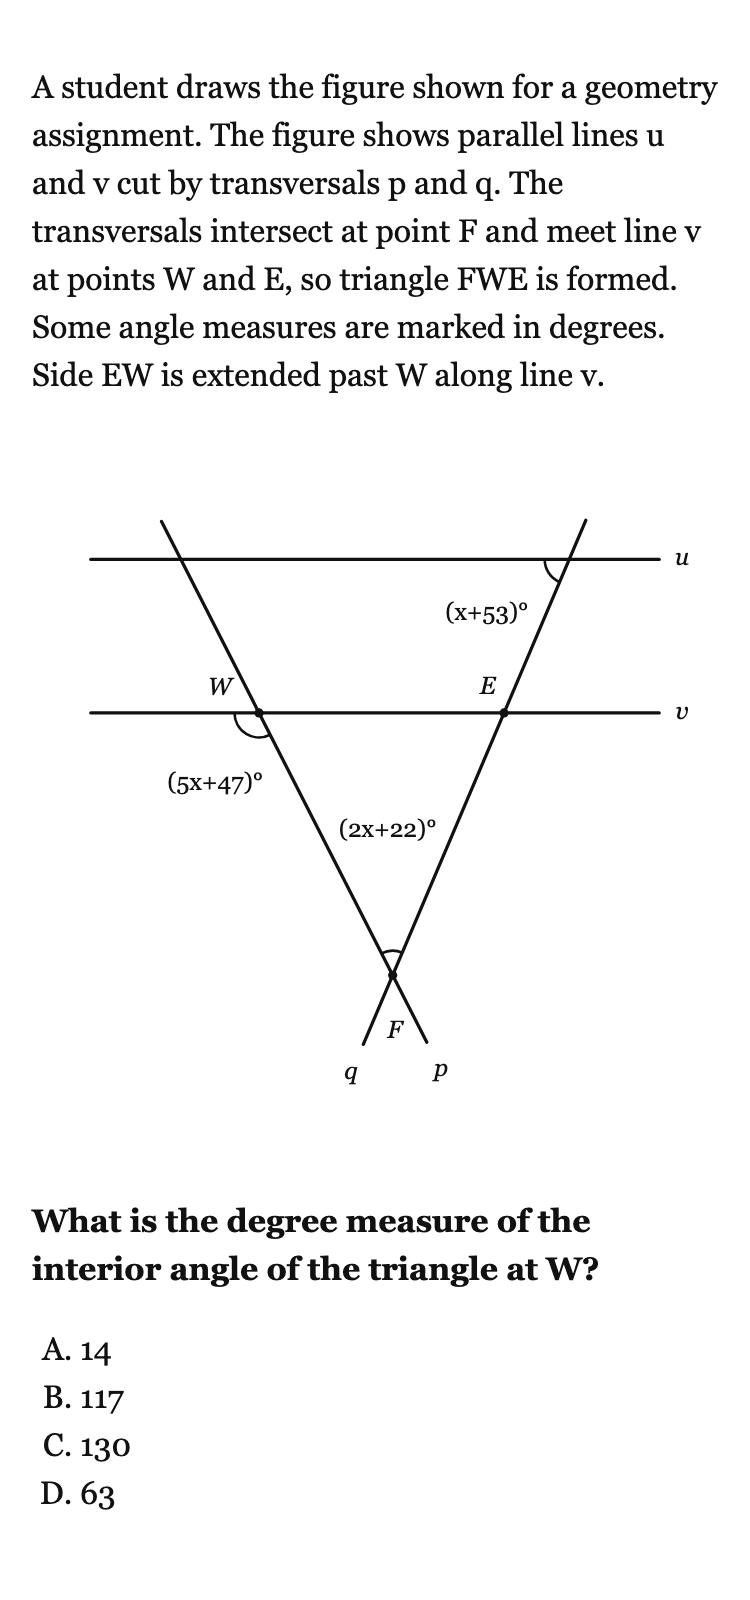
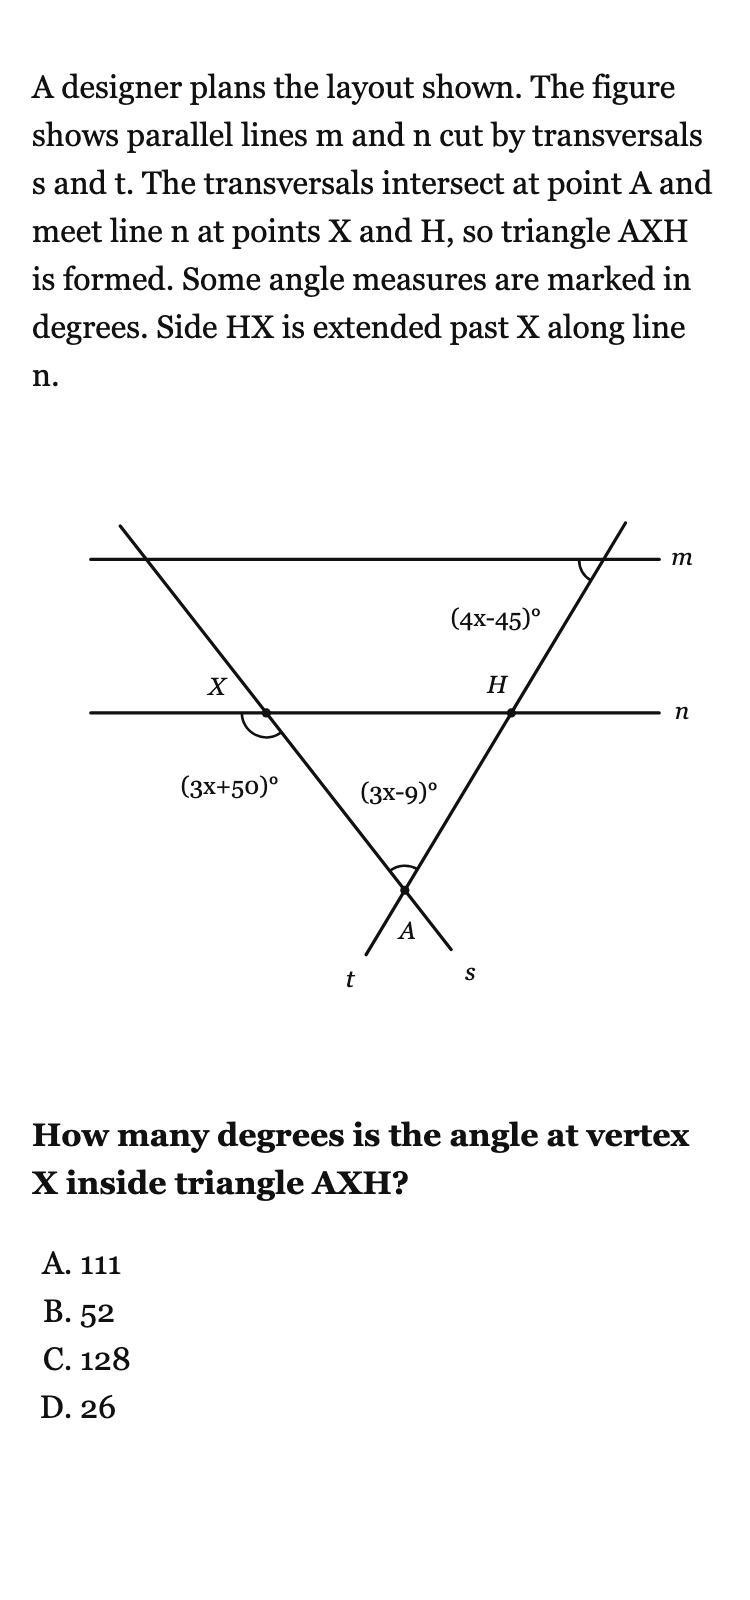
feat(figures): PT 삼각형 내각의 합 triangle_angle_sum.PT.P(교차 횡단선 삼각형) + 장면 꼭대기 각 ≥60°

diff --git a/lib/problem-generation/math-archetypes/skills/fig/items/lines_angles_triangles.triangle_angle_sum.PT.P.ts b/lib/problem-generation/math-archetypes/skills/fig/items/lines_angles_triangles.triangle_angle_sum.PT.P.ts
@@ -1,0 +1,106 @@
+// lines_angles_triangles.triangle_angle_sum.PT.P — 평행선 두 개와 아래에서 만나는 횡단선 두 개가 만드는 삼각형 XPQ 의 세 각 라벨(위 평행선의 동위각 포함)에서 내각의 합 180° 로 x 와 각을 구한다.
+import { GenFail } from "../../../types";
+import { W } from "../../d-kit";
+import { figJs } from "../../../figure-kit";
+import { defineItem } from "../item-kit";
+import { geoInst } from "../geo-kit";
+import { CR_JS, crExpr, crFig, crIntro, crNum, crScene, type CrAng, type CrScene } from "../geo-cr-kit";
+import { retry } from "../ext-kit";
+import { exprLabel } from "../tri-kit";
+import type { Rng } from "../../../rng";
+
+const pos = (ws: ReturnType<typeof W>[]) => ws.filter((w) => Number.isInteger(w.v) && w.v > 0 && w.v < 180);
+/** 삼각형 세 각을 읽는 자리: al(P 의 각)·be(Q 의 각)는 아래 평행선(삼각형의 각 그대로) 또는 위 평행선(동위각)에서, ga 는 꼭대기 X. */
+function spots(rng: Rng) { return { upA: rng.chance(0.5), upB: rng.chance(0.5) }; }
+type Sp = ReturnType<typeof spots>;
+const angAl = (s: Sp, label: string): CrAng => ({ at: s.upA ? "mp" : "np", region: "SE", label });
+const angBe = (s: Sp, label: string): CrAng => ({ at: s.upB ? "mq" : "nq", region: "SW", label });
+const angGa = (label: string): CrAng => ({ at: "X", region: "N", label });
+const read: [string, string] = ["그림에서 세 각의 라벨을 읽는다.", "Read the three angle labels."];
+const corr = (s: Sp, sc: CrScene): [string, string] => (s.upA || s.upB) ? [`위 평행선 ${sc.par[0]} 에서 읽은 각은 동위각이므로 삼각형 ${sc.X}${sc.P}${sc.Q} 의 각과 같다.`, "Angles read at the upper line are corresponding angles: equal to the triangle's angles."] : [`세 각은 모두 삼각형 ${sc.X}${sc.P}${sc.Q} 의 내각이다.`, "All three are interior angles of the triangle."];
+const nm = (sc: CrScene) => `${sc.X}${sc.P}${sc.Q}`;
+const QX = (rng: Rng) => rng.pick([`What is the value of $x$?`, `In the figure shown, what is the value of $x$?`, `What value of $x$ is shown in the figure?`]);
+const trig = (sc: CrScene, s: Sp, labels: [string, string, string]): [string, string] => [`삼각형 ${nm(sc)} 의 세 각 ${labels.join(", ")} 의 합이 180° 이다.`, "The interior angles add to 180°."]; void trig;
+
+export const ITEM = defineItem({
+  prefix: "lat", itemId: "lines_angles_triangles.triangle_angle_sum.PT.P",
+  hard: [
+    {
+      op: "compose_kind", structure: "삼각형의 세 각이 x 의 일차식으로 라벨된 그림(두 각은 위 평행선의 동위각일 수 있음)에서 내각의 합 180° 로 x 를 구한 뒤 가장 큰 각의 크기를 구함", extra: "동위각을 삼각형의 각으로 옮겨 합 180° 의 방정식을 세우고 각각에 되돌려 가장 큰 각을 골라야 함(x 를 답하는 함정) — medium 은 x 의 값",
+      concepts: ["삼각형 내각의 합", "동위각", "일차방정식", "각의 크기 비교"],
+      gen(rng) { return retry(rng, () => {
+        const sc = crScene(rng); const s = spots(rng); const x = rng.int(8, 26); const eA = crExpr(rng, sc.al, x), eB = crExpr(rng, sc.be, x), eG = crExpr(rng, sc.ga, x); if (eA.a + eB.a + eG.a === 0) throw new GenFail("퇴화"); const big = Math.max(sc.al, sc.be, sc.ga);
+        const fig = crFig(sc, [angAl(s, eA.label), angBe(s, eB.label), angGa(eG.label)]);
+        return geoInst(rng, {
+          stimulus: crIntro(rng, sc), question: rng.pick([`What is the measure, in degrees, of the largest angle of triangle $${nm(sc)}$?`, `What is the degree measure of the largest interior angle of the triangle?`, `The greatest angle of triangle $${nm(sc)}$ measures how many degrees?`]), correct: big,
+          wrongs: pos([W(x, "step_missing", "x 를 답했다."), W(Math.min(sc.al, sc.be, sc.ga), "opposite", "가장 작은 각을 답했다."), W(180 - big, "formula_misuse", "나머지 두 각의 합을 답했다."), W(sc.al + sc.be, "formula_misuse", "두 밑각의 합을 답했다."), W(big + 10, "other", "계산 중 어긋났다.")]).filter((w) => w.v !== big),
+          verificationJs: figJs({}, fig, `${CR_JS}if (!Number.isFinite(X)) throw new Error('x 없음'); return Math.max(AL,BE,GA);`),
+          trace: [read, corr(s, sc), [`내각의 합: ${eA.label.replace("°", "")} + ${eB.label.replace("°", "")} + ${eG.label.replace("°", "")} = 180 에서 x = ${x} 이다.`, "The three angles add to 180°; solve for x."], [`세 각은 ${sc.al}°, ${sc.be}°, ${sc.ga}° 이다.`, "Substitute x."], [`가장 큰 각은 ${big}° 이다.`, "Pick the largest."], [`따라서 ${big} 이다.`, "State the measure."]], variant: "largest_angle_parallel_triangle",
+        }, fig);
+      }); },
+    },
+    {
+      op: "chain2", structure: "삼각형의 두 각이 x 의 식(동위각일 수 있음), 꼭대기 각이 숫자로 라벨된 그림에서 내각의 합으로 x 를 구한 뒤 한 밑각의 크기를 구함", extra: "합 180° → x → 식에 되돌려 밑각 의 연쇄(꼭대기 각이나 x 를 답하는 함정) — medium 은 x 의 값",
+      concepts: ["삼각형 내각의 합", "동위각", "일차방정식"],
+      gen(rng) { return retry(rng, () => {
+        const sc = crScene(rng); const s = spots(rng); const x = rng.int(8, 26); const eA = crExpr(rng, sc.al, x), eB = crExpr(rng, sc.be, x); if (eA.a + eB.a === 0) throw new GenFail("퇴화"); const askP = rng.chance(0.5); const tgt = askP ? sc.al : sc.be; const who = askP ? sc.P : sc.Q;
+        const fig = crFig(sc, [angAl(s, eA.label), angBe(s, eB.label), angGa(crNum(sc.ga))]);
+        return geoInst(rng, {
+          stimulus: crIntro(rng, sc), question: rng.pick([`What is the measure, in degrees, of angle $${who}$ of triangle $${nm(sc)}$?`, `What is the degree measure of the interior angle at vertex $${who}$?`, `How many degrees is the angle of the triangle at $${who}$?`]), correct: tgt,
+          wrongs: pos([W(x, "step_missing", "x 를 답했다."), W(sc.ga, "other", "꼭대기 각을 답했다."), W(askP ? sc.be : sc.al, "other", "다른 밑각을 답했다."), W((askP ? eA : eB).a * x, "step_missing", "상수항을 더하지 않았다."), W(tgt + 10, "other", "계산 중 어긋났다.")]).filter((w) => w.v !== tgt),
+          verificationJs: figJs({ who: askP ? "P" : "Q" }, fig, `${CR_JS}if (!Number.isFinite(X)) throw new Error('x 없음'); return P.who==='P'?AL:BE;`),
+          trace: [read, corr(s, sc), [`내각의 합: ${eA.label.replace("°", "")} + ${eB.label.replace("°", "")} + ${sc.ga} = 180 에서 x = ${x} 이다.`, "The three angles add to 180°."], [`∠${who} = ${(askP ? eA : eB).label.replace("°", "")} = ${tgt}° 이다.`, "Substitute x into the label of the asked angle."], [`꼭대기 각은 ${sc.ga}° 로 합이 180° 이다.`, "Check the sum."], [`따라서 ${tgt} 이다.`, "State the measure."]], variant: "base_angle_from_sum_parallel",
+        }, fig);
+      }); },
+    },
+    {
+      op: "repr_shift", structure: "삼각형의 세 각이 ax°, bx°, cx° 의 비로 라벨된 그림(두 각은 동위각일 수 있음)에서 비를 식으로 옮겨 합 180° 로 지정한 각의 크기를 구함", extra: "비 라벨의 계수 합 = 180° 로 x 를 구해 가장 작은(또는 큰) 각을 골라야 함 — medium 은 x 의 값",
+      concepts: ["삼각형 내각의 합", "비", "동위각"],
+      gen(rng) { return retry(rng, () => {
+        const sets: [number, number, number][] = [[2, 3, 4], [3, 4, 5], [2, 3, 5], [4, 5, 6], [3, 5, 7], [2, 4, 5]]; const set = rng.pick(sets); const sum = set[0] + set[1] + set[2]; if (180 % sum) throw new GenFail("비"); const k = 180 / sum;
+        const p = rng.shuffle([...set]) as [number, number, number]; const [a, b, g] = p.map((q) => q * k) as [number, number, number]; if (a < 46 || a > 85 || b < 46 || b > 85 || g < 30 || a === b || g === a || g === b) throw new GenFail("범위");
+        const sc: CrScene = { ...crScene(rng), al: a, be: b, ga: g }; const s = spots(rng); const askSmall = rng.chance(0.5); const vals = [a, b, g]; const correct = askSmall ? Math.min(...vals) : Math.max(...vals);
+        const fig = crFig(sc, [angAl(s, exprLabel(p[0], 0)), angBe(s, exprLabel(p[1], 0)), angGa(exprLabel(p[2], 0))]);
+        return geoInst(rng, {
+          stimulus: crIntro(rng, sc, " The angles are in the ratio shown."), question: askSmall ? rng.pick([`What is the measure, in degrees, of the smallest angle of triangle $${nm(sc)}$?`, `The smallest interior angle of the triangle measures how many degrees?`]) : rng.pick([`What is the measure, in degrees, of the largest angle of triangle $${nm(sc)}$?`, `The largest interior angle of the triangle measures how many degrees?`]), correct,
+          wrongs: pos([W(k, "step_missing", "x 를 답했다."), W(askSmall ? Math.max(...vals) : Math.min(...vals), "opposite", "반대 각을 답했다."), W(60, "formula_misuse", "세 각이 같다고 보았다."), W(180 - correct, "formula_misuse", "나머지 두 각의 합을 답했다."), W(correct + 10, "other", "계산 중 어긋났다.")]).filter((w) => w.v !== correct),
+          verificationJs: figJs({ small: askSmall ? 1 : 0 }, fig, `${CR_JS}if (!Number.isFinite(X)) throw new Error('x 없음'); return P.small?Math.min(AL,BE,GA):Math.max(AL,BE,GA);`),
+          trace: [read, corr(s, sc), [`합: ${p.join("x + ")}x = ${sum}x = 180 에서 x = ${k} 이다.`, "The ratio parts add to 180°."], [`세 각은 ${a}°, ${b}°, ${g}° 이다.`, "Multiply."], [`${askSmall ? "가장 작은" : "가장 큰"} 각은 ${correct}° 이다.`, "Pick the requested angle."], [`따라서 ${correct} 이다.`, "State the measure."]], variant: askSmall ? "smallest_angle_ratio_parallel" : "largest_angle_ratio_parallel",
+        }, fig);
+      }); },
+    },
+    {
+      op: "inverse", structure: "삼각형의 한 각이 숫자, 나머지 두 각이 x 의 식으로 라벨된 그림(동위각일 수 있음)에서 180° 에서 숫자 각을 뺀 뒤 x 를 역산해 지정한 각의 크기를 구함", extra: "180° − 숫자 각 = 나머지 두 식의 합 으로 x 를 거꾸로 구해 식에 되돌려야 함(숫자 각을 답하는 함정) — medium 은 x 의 값",
+      concepts: ["삼각형 내각의 합", "동위각", "일차방정식", "식의 대입"],
+      gen(rng) { return retry(rng, () => {
+        const sc = crScene(rng); const s = spots(rng); const x = rng.int(8, 26); const numAt = rng.pick(["al", "be", "ga"] as const); const vals = { al: sc.al, be: sc.be, ga: sc.ga }; const others = (["al", "be", "ga"] as const).filter((q) => q !== numAt); const e1 = crExpr(rng, vals[others[0]], x), e2 = crExpr(rng, vals[others[1]], x); if (e1.a + e2.a === 0) throw new GenFail("퇴화");
+        const lab = { al: "", be: "", ga: "" }; lab[numAt] = crNum(vals[numAt]); lab[others[0]] = e1.label; lab[others[1]] = e2.label; const tgt = others[rng.int(0, 1)]; const who = tgt === "al" ? sc.P : tgt === "be" ? sc.Q : sc.X; const e = tgt === others[0] ? e1 : e2;
+        const fig = crFig(sc, [angAl(s, lab.al), angBe(s, lab.be), angGa(lab.ga)]);
+        return geoInst(rng, {
+          stimulus: crIntro(rng, sc), question: rng.pick([`What is the measure, in degrees, of angle $${who}$ of triangle $${nm(sc)}$?`, `What is the degree measure of the interior angle at vertex $${who}$?`]), correct: vals[tgt],
+          wrongs: pos([W(x, "step_missing", "x 를 답했다."), W(vals[numAt], "other", "숫자로 주어진 각을 답했다."), W(180 - vals[numAt], "formula_misuse", "나머지 두 각의 합을 답했다."), W(e.a * x, "step_missing", "상수항을 더하지 않았다."), W(vals[tgt] + 10, "other", "계산 중 어긋났다.")]).filter((w) => w.v !== vals[tgt]),
+          verificationJs: figJs({ t: tgt }, fig, `${CR_JS}if (!Number.isFinite(X)) throw new Error('x 없음'); return P.t==='al'?AL:P.t==='be'?BE:GA;`),
+          trace: [read, corr(s, sc), [`나머지 두 각의 합 = 180° - ${vals[numAt]}° = ${180 - vals[numAt]}° 이다.`, "The other two angles add to 180° minus the given angle."], [`두 식의 합을 ${180 - vals[numAt]} 와 같게 놓아 x = ${x} 를 얻는다.`, "Solve for x."], [`∠${who} = ${e.label.replace("°", "")} = ${vals[tgt]}° 이다.`, "Substitute x."], [`따라서 ${vals[tgt]} 이다.`, "State the measure."]], variant: "angle_from_one_numeric_angle_parallel",
+        }, fig);
+      }); },
+    },
+  ],
+  em: [
+    {
+      lv: "easy", name: "third_angle", structure: "두 각이 숫자로 주어진 그림에서 셋째 각(x°)을 180° 에서 빼서 구함", extra: "easy: 내각의 합 180° 한 번 적용", concepts: ["삼각형 내각의 합", "뺄셈"],
+      gen(rng) { return retry(rng, () => {
+        const sc = crScene(rng); const s = spots(rng); const k = rng.pick(["al", "be", "ga"] as const); const vals = { al: sc.al, be: sc.be, ga: sc.ga }; const lab = { al: crNum(sc.al), be: crNum(sc.be), ga: crNum(sc.ga) }; lab[k] = "x°";
+        const fig = crFig(sc, [angAl(s, lab.al), angBe(s, lab.be), angGa(lab.ga)]); const o = (["al", "be", "ga"] as const).filter((q) => q !== k);
+        return geoInst(rng, { stimulus: crIntro(rng, sc), question: QX(rng), correct: vals[k], wrongs: pos([W(vals[o[0]] + vals[o[1]], "formula_misuse", "두 각의 합을 답했다."), W(90 - vals[o[0]], "formula_misuse", "90°에서 뺐다."), W(vals[o[0]], "other", "다른 각을 답했다."), W(vals[k] + 10, "other", "계산 중 어긋났다.")]).filter((w) => w.v !== vals[k]), verificationJs: figJs({}, fig, `${CR_JS}const x=FIGURE.angles.find(g=>/^x/.test(g.label)); if(!x) throw new Error('x 라벨 없음'); return meas(x.at,x.region);`), trace: [read, corr(s, sc), [`x = 180 - ${vals[o[0]]} - ${vals[o[1]]} = ${vals[k]} 이다.`, "Subtract the two known angles from 180°."]], variant: "third_angle_numbers_parallel" }, fig);
+      }); },
+    },
+    {
+      lv: "medium", name: "solve_x", structure: "세 각이 x 의 일차식인 그림에서 합 180° 로 x 를 구함", extra: "medium: 일차방정식 한 번", concepts: ["삼각형 내각의 합", "일차방정식"],
+      gen(rng) { return retry(rng, () => {
+        const sc = crScene(rng); const s = spots(rng); const x = rng.int(8, 26); const eA = crExpr(rng, sc.al, x), eB = crExpr(rng, sc.be, x), eG = crExpr(rng, sc.ga, x); if (eA.a + eB.a + eG.a === 0) throw new GenFail("퇴화");
+        const fig = crFig(sc, [angAl(s, eA.label), angBe(s, eB.label), angGa(eG.label)]);
+        return geoInst(rng, { stimulus: crIntro(rng, sc), question: QX(rng), correct: x, wrongs: pos([W(sc.al, "formula_misuse", "첫 각을 답했다."), W(Math.round((180 - eA.b - eB.b - eG.b) / (eA.a + eB.a + eG.a + 1)), "formula_misuse", "계수 합을 잘못 셌다."), W(Math.round(180 / (eA.a + eB.a + eG.a)), "step_missing", "상수항을 무시했다."), W(x + 1, "other", "계산 중 어긋났다.")]).filter((w) => w.v !== x), verificationJs: figJs({}, fig, `${CR_JS}if (!Number.isFinite(X)) throw new Error('x 없음'); return X;`), trace: [read, corr(s, sc), [`내각의 합: ${eA.label.replace("°", "")} + ${eB.label.replace("°", "")} + ${eG.label.replace("°", "")} = 180 이다.`, "The angles add to 180°."], [`x = ${x} 이다.`, "Solve."]], variant: "solve_x_parallel_triangle" }, fig);
+      }); },
+    },
+  ],
+});

diff --git a/lib/problem-generation/math-archetypes/skills/fig/geo-cr-kit.ts b/lib/problem-generation/math-archetypes/skills/fig/geo-cr-kit.ts
@@ -7,13 +7,13 @@ import { exprLabel } from "./tri-kit";
 import { lead } from "./geo-kit";
 
 export type CrScene = { par: [string, string]; tr: [string, string]; P: string; Q: string; X: string; al: number; be: number; ga: number };
-/** 장면: 평행선 이름은 m·n 이 아닌 쌍도 쓴다. 예각 al·be 는 46~72 의 서로 다른 정수(꼭대기 각 36° 이상). */
+/** 장면: 평행선 이름은 m·n 이 아닌 쌍도 쓴다. 예각 al·be 는 46~74 의 서로 다른 정수(꼭대기 각 60° 이상 — 좁으면 그 라벨이 꼭짓점에서 멀리 놓여 밑각 라벨과 뒤섞인다). */
 export function crScene(rng: Rng, o: { alMin?: number; alMax?: number } = {}): CrScene {
   const par: [string, string] = rng.pick([["m", "n"], ["j", "k"], ["a", "b"], ["u", "v"]] as [string, string][]);
   const tr: [string, string] = rng.pick(([["p", "q"], ["s", "t"], ["r", "w"], ["c", "d"]] as [string, string][]).filter((t) => !t.some((n) => par.includes(n))));
   const pts = rng.shuffle(["P", "Q", "X", "R", "S", "T", "U", "V", "W", "Y", "Z", "A", "B", "C", "D", "E", "F", "G", "H"].filter((n) => !par.includes(n.toLowerCase()) && !tr.includes(n.toLowerCase()))).slice(0, 3);
   for (let t = 0; t < 100; t++) {
-    const al = rng.int(o.alMin ?? 46, o.alMax ?? 72), be = rng.int(o.alMin ?? 46, o.alMax ?? 72); const ga = 180 - al - be; if (al === be || ga < 36 || ga === al || ga === be) continue;
+    const al = rng.int(o.alMin ?? 46, o.alMax ?? 74), be = rng.int(o.alMin ?? 46, o.alMax ?? 74); const ga = 180 - al - be; if (al === be || ga < 60 || ga === al || ga === be) continue; // 꼭대기 각이 좁으면 그 라벨이 꼭짓점에서 멀리 놓여 밑각 라벨과 뒤섞인다 → 60° 이상
     return { par, tr, P: pts[0], Q: pts[1], X: pts[2], al, be, ga };
   }
   throw new GenFail("교차 장면 표집 실패");

diff --git a/lib/problem-generation/math-archetypes/figure-qa-hash.ts b/lib/problem-generation/math-archetypes/figure-qa-hash.ts
@@ -48,7 +48,7 @@ FAMILY_KIT.PT = [GEO_PT_KIT, ...FAMILY_KIT.PT];
 export const GEO_TR_ITEMS: string[] = ["lines_angles_triangles.similar_triangles.TR.P", "lines_angles_triangles.congruent_triangles.TR.P", "lines_angles_triangles.triangle_inequality.TR.P", "area_volume.triangle_area.TR.P", "lines_angles_triangles.exterior_angle.TR.P", "lines_angles_triangles.vertical_supplementary_angles.TR.P", "lines_angles_triangles.triangle_angle_sum.TR.C", "lines_angles_triangles.isosceles_base_angle.TR.C"];
 for (const id of GEO_TR_ITEMS) ITEM_KIT[id] = [GEO_KIT, ...(ITEM_KIT[id] ?? [])];
 const CR_KIT = `${AR}/skills/fig/geo-cr-kit.ts`;
-for (const id of ["lines_angles_triangles.exterior_angle.PT.P"]) ITEM_KIT[id] = [CR_KIT, ...(ITEM_KIT[id] ?? [])];
+for (const id of ["lines_angles_triangles.exterior_angle.PT.P", "lines_angles_triangles.triangle_angle_sum.PT.P"]) ITEM_KIT[id] = [CR_KIT, ...(ITEM_KIT[id] ?? [])];
 const EXT_KIT = `${AR}/skills/fig/ext-kit.ts`, TRC_KIT = `${AR}/skills/fig/trc-kit.ts`;
 for (const id of ["lines_angles_triangles.triangle_angle_sum.TR.C", "lines_angles_triangles.isosceles_base_angle.TR.C"]) ITEM_KIT[id] = [TRC_KIT, ...(ITEM_KIT[id] ?? [])];
 for (const id of ["lines_angles_triangles.exterior_angle.TR.P", "lines_angles_triangles.vertical_supplementary_angles.TR.P"]) ITEM_KIT[id] = [EXT_KIT, ...(ITEM_KIT[id] ?? [])];

diff --git a/lib/problem-generation/math-archetypes/skills/fig/bundles/G7-triangles-parallel.ts b/lib/problem-generation/math-archetypes/skills/fig/bundles/G7-triangles-parallel.ts
@@ -16,8 +16,9 @@ import { ITEM as latExt } from "../items/lines_angles_triangles.exterior_angle.T
 import { ITEM as latAsC } from "../items/lines_angles_triangles.triangle_angle_sum.TR.C";
 import { ITEM as latIsoC } from "../items/lines_angles_triangles.isosceles_base_angle.TR.C";
 import { ITEM as latExtPt } from "../items/lines_angles_triangles.exterior_angle.PT.P";
+import { ITEM as latAsPt } from "../items/lines_angles_triangles.triangle_angle_sum.PT.P";
 import { ITEM as latVsTr } from "../items/lines_angles_triangles.vertical_supplementary_angles.TR.P";
 import { ITEM as latPtPar } from "../items/lines_angles_triangles.parallel_lines_transversal_angles.PT.P";
 import { ITEM as latPtVert } from "../items/lines_angles_triangles.vertical_supplementary_angles.PT.P";
 
-export const BUNDLE: LArch[] = [...latSim, ...latPtVert, ...latPtPar, ...avTriArea, ...latExt, ...latVsTr, ...latAsC, ...latIsoC, ...latExtPt, ...latTi, ...latCong, ...latAngleSum, ...rttHyp, ...rttLeg, ...latIso, ...rttTrig, ...rttSpecial, ...rttComp, ...rttElev];
+export const BUNDLE: LArch[] = [...latSim, ...latPtVert, ...latPtPar, ...avTriArea, ...latExt, ...latVsTr, ...latAsC, ...latIsoC, ...latExtPt, ...latAsPt, ...latTi, ...latCong, ...latAngleSum, ...rttHyp, ...rttLeg, ...latIso, ...rttTrig, ...rttSpecial, ...rttComp, ...rttElev];
